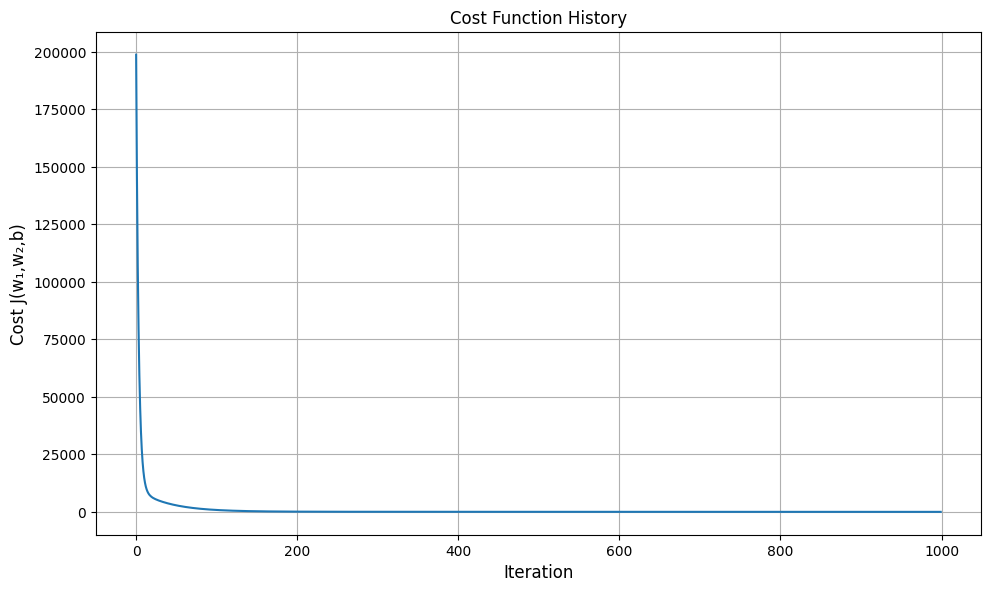
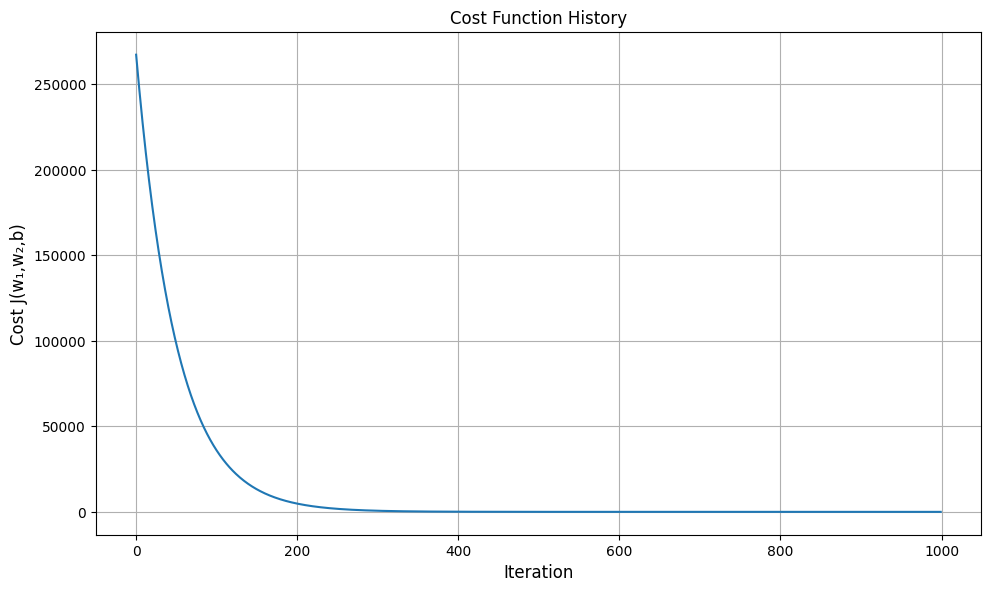
feat: add feature scaling for multiple linear regression

diff --git a/src/calculus_ml/examples/linear_example_multiple.py b/src/calculus_ml/examples/linear_example_multiple.py
@@ -3,6 +3,7 @@ import matplotlib.pyplot as plt
 from rich.console import Console
 from rich.panel import Panel
 from ..core.linear.regression import LinearRegression
+from ..core.base.scaler import StandardScaler
 from ..visualization.base.plot_utils import setup_plot, save_plot, PlotConfig
 
 console = Console()
@@ -18,7 +19,7 @@ def generate_house_data(n_samples=100, noise=0.1):
     price = 200*area + 50*bedrooms + 100 + np.random.normal(0, noise, n_samples)
     return area, bedrooms, price
 
-def plot_multiple_results(model, X1, X2, y, history, save_dir='images'):
+def plot_multiple_results(model, X1, X2, y, history, scaler=None, save_dir='images'):
     """Vẽ kết quả multiple linear regression"""
     import os
     os.makedirs(save_dir, exist_ok=True)
@@ -36,7 +37,13 @@ def plot_multiple_results(model, X1, X2, y, history, save_dir='images'):
     xx1, xx2 = np.meshgrid(np.linspace(x1_min, x1_max, 10),
                           np.linspace(x2_min, x2_max, 10))
     X_grid = np.column_stack((xx1.ravel(), xx2.ravel()))
-    y_pred = model.predict(X_grid)
+    
+    if scaler is not None:
+        X_grid_scaled = scaler.transform(X_grid)
+        y_pred = model.predict(X_grid_scaled)
+    else:
+        y_pred = model.predict(X_grid)
+    
     y_pred = y_pred.reshape(xx1.shape)
     
     ax.plot_surface(xx1, xx2, y_pred, alpha=0.3, color='red', label='Regression plane')
@@ -66,7 +73,10 @@ def run_multiple_example():
         "3. Gradient:\n"
         "   - ∂J/∂w₁ = (1/m) * Σ(h(x⁽ⁱ⁾) - y⁽ⁱ⁾) * x₁⁽ⁱ⁾\n"
         "   - ∂J/∂w₂ = (1/m) * Σ(h(x⁽ⁱ⁾) - y⁽ⁱ⁾) * x₂⁽ⁱ⁾\n"
-        "   - ∂J/∂b = (1/m) * Σ(h(x⁽ⁱ⁾) - y⁽ⁱ⁾)",
+        "   - ∂J/∂b = (1/m) * Σ(h(x⁽ⁱ⁾) - y⁽ⁱ⁾)\n"
+        "4. Feature Scaling:\n"
+        "   - Chuẩn hóa dữ liệu: x' = (x - μ) / σ\n"
+        "   - μ: mean, σ: standard deviation",
         title="Multiple Regression Formulas",
         border_style="cyan"
     ))
@@ -75,20 +85,33 @@ def run_multiple_example():
     area, bedrooms, price = generate_house_data()
     X = np.column_stack((area, bedrooms))
     
-    # Hiển thị thông tin dữ liệu
+    # Hiển thị thông tin dữ liệu gốc
     console.print(Panel(
-        f"[bold green]Dữ liệu mẫu:[/bold green]\n"
+        f"[bold green]Dữ liệu gốc:[/bold green]\n"
         f"- Số lượng mẫu: {len(price)}\n"
         f"- Diện tích: min={area.min():.1f}, max={area.max():.1f}, mean={area.mean():.1f}\n"
         f"- Số phòng ngủ: min={bedrooms.min()}, max={bedrooms.max()}, mean={bedrooms.mean():.1f}\n"
         f"- Giá nhà: min={price.min():.1f}, max={price.max():.1f}, mean={price.mean():.1f}",
-        title="Training Data",
+        title="Original Data",
+        border_style="cyan"
+    ))
+    
+    # Chuẩn hóa dữ liệu
+    scaler = StandardScaler()
+    X_scaled = scaler.fit_transform(X)
+    
+    # Hiển thị thông tin dữ liệu đã chuẩn hóa
+    console.print(Panel(
+        f"[bold green]Dữ liệu đã chuẩn hóa:[/bold green]\n"
+        f"- Diện tích: min={X_scaled[:,0].min():.2f}, max={X_scaled[:,0].max():.2f}, mean={X_scaled[:,0].mean():.2f}\n"
+        f"- Số phòng ngủ: min={X_scaled[:,1].min():.2f}, max={X_scaled[:,1].max():.2f}, mean={X_scaled[:,1].mean():.2f}",
+        title="Scaled Data",
         border_style="cyan"
     ))
     
     # Khởi tạo và training model
     model = LinearRegression(learning_rate=0.01, num_iterations=1000)
-    history = model.fit(X, price)
+    history = model.fit(X_scaled, price)
     
     # Hiển thị kết quả
     console.print(Panel(
@@ -105,7 +128,7 @@ def run_multiple_example():
     ))
     
     # Vẽ kết quả
-    plot_multiple_results(model, area, bedrooms, price, history)
+    plot_multiple_results(model, area, bedrooms, price, history, scaler)
     console.print("[green]✓[/green] Multiple regression visualization saved")
 
 if __name__ == "__main__":

diff --git a/src/calculus_ml/core/base/scaler.py b/src/calculus_ml/core/base/scaler.py
@@ -1,0 +1,32 @@
+import numpy as np
+
+class StandardScaler:
+    """Chuẩn hóa dữ liệu bằng phương pháp Standard Scaling"""
+    
+    def __init__(self):
+        self.mean = None
+        self.std = None
+    
+    def fit(self, X):
+        """Tính mean và std từ dữ liệu training"""
+        self.mean = np.mean(X, axis=0)
+        self.std = np.std(X, axis=0)
+        # Tránh chia cho 0
+        self.std[self.std == 0] = 1
+        return self
+    
+    def transform(self, X):
+        """Chuẩn hóa dữ liệu"""
+        if self.mean is None or self.std is None:
+            raise ValueError("Scaler chưa được fit")
+        return (X - self.mean) / self.std
+    
+    def fit_transform(self, X):
+        """Fit và transform dữ liệu"""
+        return self.fit(X).transform(X)
+    
+    def inverse_transform(self, X_scaled):
+        """Chuyển dữ liệu đã chuẩn hóa về dạng gốc"""
+        if self.mean is None or self.std is None:
+            raise ValueError("Scaler chưa được fit")
+        return X_scaled * self.std + self.mean 
